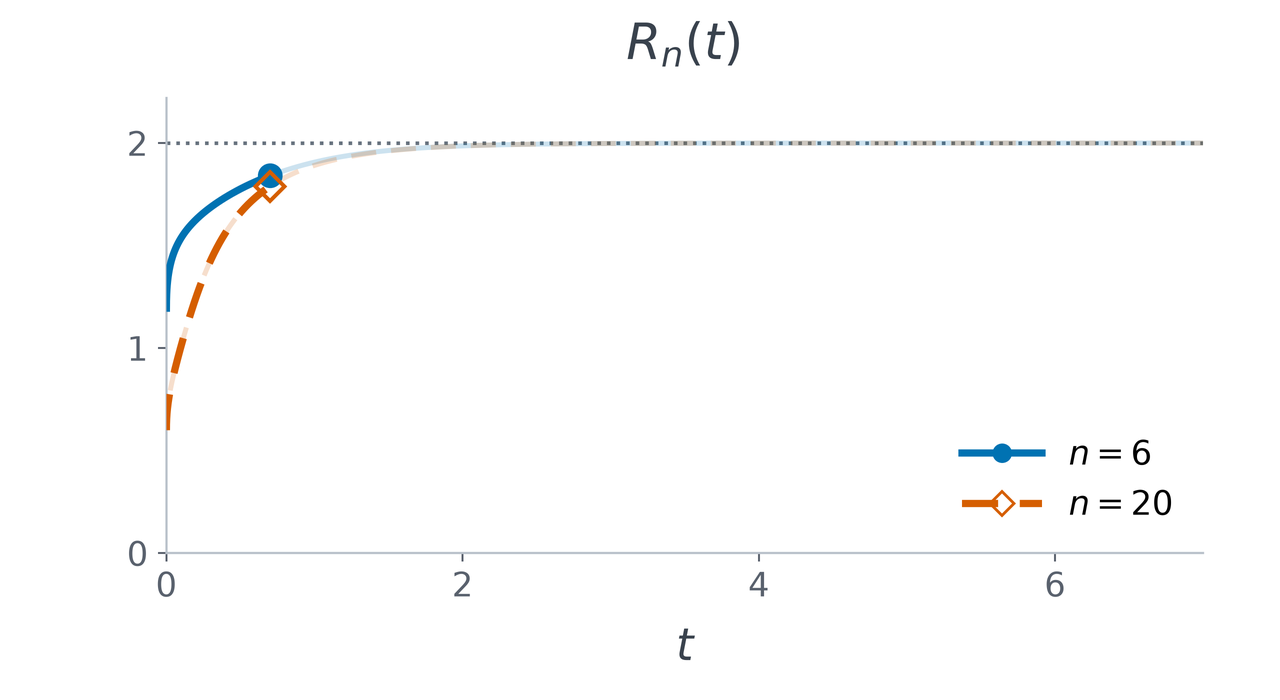
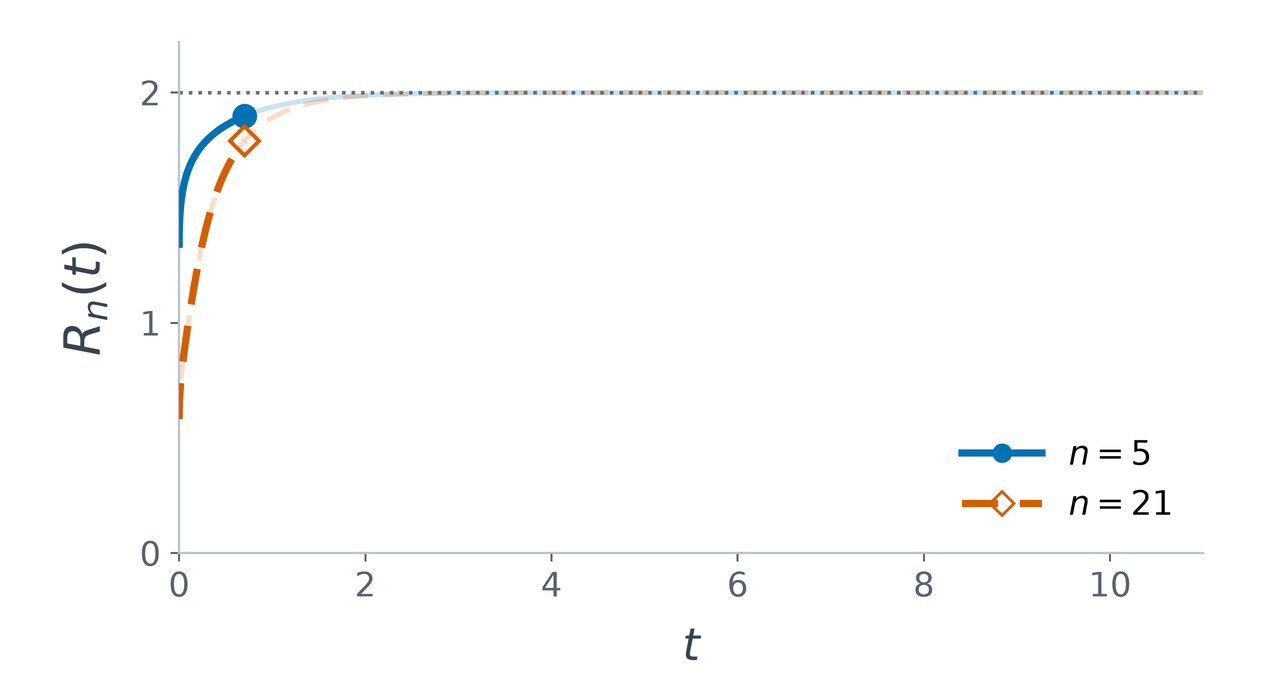
Refine mathematical statement and update animations

diff --git a/scripts/render-semigroup.py b/scripts/render-semigroup.py
@@ -3,18 +3,23 @@
 
 Run from the repository root: python3 scripts/render-semigroup.py
 Multiplier and jump rates: https://arxiv.org/html/2606.02847#S1.E1.
-Both cycles start with a unit point mass at 0. Disk areas encode site masses.
+Both cycles start with a unit point mass at 0. Disk areas are proportional to site masses;
+small hollow background markers keep every site visible even at zero mass.
 All positive-mass disks have the same color. Straight arrows encode the sign
 and magnitude of q(y-x)(p(x)-p(y)); width and darkness use one fixed logarithmic
-scale across both sizes and all frames. The first cycle has 30% larger
-arrowheads; the shared width-to-flux scale is unchanged. Flows below display resolution are
-omitted; arrowheads are omitted on faint or very short visible segments.
+strength scale across both sizes and all frames, rather than a linear flux scale.
+Weak arrows fade smoothly near the display cutoff. The first cycle has 30%
+larger arrowheads. Flows below display resolution are
+omitted; every visible flow has an arrowhead. The displayed odd cycles have
+nonzero direct jump rates from the origin to every other site.
 All transfers enter the actual dynamics and energy calculation.
 The graph shows Ent_pi(rho_t) / E_n(sqrt(rho_t)), rho_t = n p_t.
 It is a numerical illustration, not a proof. The equilibrium ratio is 0/0;
 the plotted finite-time ratios approach 2. Playback slows the early evolution
 by sampling mathematical time nonuniformly. Both animations use the same
-sample times and durations; browsers may start separate GIFs at different times.
+sample times and durations, with a five-second initial hold. The evolution
+continues until every flow is below display resolution, then holds for three
+seconds; browsers may start separate GIFs at different times.
 """
 
 from math import cos, hypot, log, log1p, pi, sin
@@ -28,30 +33,33 @@ from PIL import Image, ImageDraw, ImageFont
 
 
 ROOT = Path(__file__).resolve().parents[1]
-SIZES = (6, 20)
-DIAGRAM_WIDTH, DIAGRAM_HEIGHT = 720, 430
+SIZES = (5, 21)
+DIAGRAM_WIDTH, DIAGRAM_HEIGHT = 720, 350
 PLOT_WIDTH, PLOT_HEIGHT = 640, 350
-END_TIME = 7.0
-FRAME_COUNT = 300
-FRAME_DURATION_MS = 70
+END_TIME = 11.0
+# More samples at 33 fps preserve the roughly 26-second evolution between holds.
+FRAME_COUNT = 876
+FRAME_DURATION_MS = 30
+INITIAL_HOLD_MS = 5000
+FINAL_HOLD_MS = 3000
 SCALE = 4
 EXPORT_SCALE = 2
 RING_RADIUS = 123
-MASS_RADIUS = 30
-CENTERS = ((180, 203), (540, 203))
+MASS_RADIUS = 18
+SITE_RADIUS = 2.8
+CENTERS = ((180, 154), (540, 154))
 ARROWHEAD_SCALES = (1.3, 1.0)
-# A visual stage: exact uniformity is reached only as t tends to infinity.
-EQUILIBRIUM_DISPLAY_TOLERANCE = 0.01
 WHITE = (255, 255, 255)
 INK = (31, 41, 55)
 GUIDE = (196, 204, 213)
 BLUE = (21, 53, 75)
-FLOW_COLOR = (213, 94, 0)
+FLOW_COLOR = (191, 73, 4)
 PLOT_COLORS = ("#0072b2", "#d55e00")
 PLOT_STYLES = ("-", (0, (5, 3)))
 PLOT_MARKERS = ("o", "D")
 FLOW_REFERENCE = 0.0001
-MIN_FLOW_VISIBILITY = 0.15
+MIN_FLOW_VISIBILITY = 0.005
+FULL_FLOW_VISIBILITY = 0.04
 
 
 class HeatEvolution:
@@ -153,6 +161,9 @@ def check_model(model):
     assert np.all((ratios > 0) & (ratios < 2))
     assert np.all(np.diff(ratios) >= 0)
     assert 0 < 2 - ratios[-1] < 1e-6
+    final_flows = model.net_flows(model.distribution(END_TIME))
+    final_visibility = np.log1p(np.abs(final_flows) / FLOW_REFERENCE) / FLOW_LOG_SCALE
+    assert np.all(final_visibility < MIN_FLOW_VISIBILITY), "Animation ends with visible flows"
     print(f"n={n}: R(0)={ratios[0]:.10f}, R({END_TIME:g})={ratios[-1]:.10f}")
 
 
@@ -161,13 +172,13 @@ class RatioPlot:
         self.times = END_TIME * np.linspace(0, 1, 500) ** 2
         self.figure = Figure(figsize=(PLOT_WIDTH / 100, PLOT_HEIGHT / 100), dpi=100 * SCALE)
         self.canvas = FigureCanvasAgg(self.figure)
-        axes = self.figure.add_axes((0.13, 0.21, 0.81, 0.65))
+        axes = self.figure.add_axes((0.14, 0.21, 0.80, 0.73))
         axes.set_xlim(0, END_TIME)
         axes.set_ylim(0, 2.22)
-        axes.set_xticks((0, 2, 4, 6))
+        axes.set_xticks(np.arange(0, END_TIME + 1, 2))
         axes.set_yticks((0, 1, 2))
         axes.set_xlabel(r"$t$", fontsize=16, color="#39424d", labelpad=8)
-        axes.set_title(r"$R_n(t)$", fontsize=18, color="#39424d", pad=14)
+        axes.set_ylabel(r"$R_n(t)$", fontsize=18, color="#39424d", labelpad=10)
         axes.spines[["top", "right"]].set_visible(False)
         for edge in ("left", "bottom"):
             axes.spines[edge].set_color("#b9c1ca")
@@ -244,17 +255,10 @@ def render_heat(t):
     for model, center, arrowhead_scale in zip(MODELS, CENTERS, ARROWHEAD_SCALES):
         p = model.distribution(t)
         check_distribution(model, p)
-        if t == 0:
-            phase = "Initial"
-        elif np.max(np.abs(model.n * p - 1)) <= EQUILIBRIUM_DISPLAY_TOLERANCE:
-            phase = "Equilibrium"
-        else:
-            phase = "Spreading"
-        label(phase, center[0], 23, size=22, bold=True)
         locations = sites(model.n, center)
         radii = MASS_RADIUS * np.sqrt(p)
         disk(center, RING_RADIUS, None, GUIDE, 0.8)
-        label(f"n = {model.n}", center[0], 394, size=24)
+        label(f"n = {model.n}", center[0], 317, size=24)
         signed_flows = model.net_flows(p)
         # Faint transfers first, so stronger transfers remain visible at crossings.
         for index in np.argsort(np.abs(signed_flows)):
@@ -268,28 +272,35 @@ def render_heat(t):
             start, end = locations[x], locations[y]
             distance = hypot(end[0] - start[0], end[1] - start[1])
             ux, uy = (end[0] - start[0]) / distance, (end[1] - start[1]) / distance
-            start_margin, end_margin = max(1.4, radii[x]) + 0.4, max(1.4, radii[y]) + 0.7
+            start_margin = max(SITE_RADIUS, radii[x]) + 0.8
+            end_margin = max(SITE_RADIUS, radii[y]) + 1.2
             available = distance - start_margin - end_margin
             if available < 2:
                 continue
             a = (start[0] + ux * start_margin, start[1] + uy * start_margin)
             b = (end[0] - ux * end_margin, end[1] - uy * end_margin)
-            color = mix(WHITE, FLOW_COLOR, visibility ** 0.6)
-            width = 0.65 + 4 * visibility
+            # Keep weak indirect transfers readable, while a nonlinear width
+            # gives the dominant transfers more contrast on the same fixed scale.
+            # A smooth fade avoids arrows popping on/off at the cutoff. It uses
+            # the same absolute-flow scale in every panel and every frame.
+            fade = min(1.0, (visibility - MIN_FLOW_VISIBILITY) /
+                       (FULL_FLOW_VISIBILITY - MIN_FLOW_VISIBILITY))
+            opacity = fade ** 2 * (3 - 2 * fade)
+            color = mix(WHITE, FLOW_COLOR, opacity * (0.55 + 0.45 * visibility ** 1.5))
+            width = 0.8 + 4.2 * visibility ** 4
             line([a, b], color, width)
-            if visibility >= 0.30 and available >= 15:
-                length = (4 + 5 * visibility) * arrowhead_scale
-                half_width = (2 + 1.5 * visibility) * arrowhead_scale
-                arrow = [b, (b[0] - ux * length - uy * half_width,
-                              b[1] - uy * length + ux * half_width),
-                         (b[0] - ux * length + uy * half_width,
-                          b[1] - uy * length - ux * half_width)]
-                draw.polygon([(round(x * SCALE), round(y * SCALE)) for x, y in arrow], fill=color)
-        # Draw smaller disks first to keep the concentrated mass easy to follow.
+            length = min((4 + 5 * visibility) * arrowhead_scale, available * 0.45)
+            half_width = (1.5 + 1.5 * visibility) * arrowhead_scale
+            arrow = [b, (b[0] - ux * length - uy * half_width,
+                          b[1] - uy * length + ux * half_width),
+                     (b[0] - ux * length + uy * half_width,
+                      b[1] - uy * length - ux * half_width)]
+            draw.polygon([(round(x * SCALE), round(y * SCALE)) for x, y in arrow], fill=color)
+        # Site markers are a separate backdrop, never a floor on encoded mass.
+        for location in locations:
+            disk(location, SITE_RADIUS, WHITE, GUIDE, 0.7)
         for index in np.argsort(p):
-            if p[index] < 1e-12:
-                disk(locations[index], 1.4 if model.n > 10 else 3.2, WHITE, GUIDE, 0.7)
-            else:
+            if p[index] > 0:
                 disk(locations[index], radii[index], BLUE, mix(BLUE, INK, 0.2), 0.6)
 
     return image.resize((DIAGRAM_WIDTH * EXPORT_SCALE, DIAGRAM_HEIGHT * EXPORT_SCALE),
@@ -301,7 +312,8 @@ def export_animation(name, render_frame, times):
     output.mkdir(exist_ok=True)
     snapshot = render_frame(0.7)
     snapshot.save(output / f"{name}.png", optimize=True)
-    sample_indices = (0, 30, 70, 130, 210, FRAME_COUNT - 1)
+    # Sample the full evolution even when the animation frame count changes.
+    sample_indices = np.linspace(0, len(times) - 1, 8, dtype=int)
     exported_width, exported_height = snapshot.size
     sample = Image.new("RGB", (exported_width, exported_height * len(sample_indices)), WHITE)
     for row, i in enumerate(sample_indices):
@@ -323,7 +335,7 @@ def export_animation(name, render_frame, times):
     frames = indexed_frames()
     first = next(frames)
     durations = [FRAME_DURATION_MS] * FRAME_COUNT
-    durations[0], durations[-1] = 2000, 3000
+    durations[0], durations[-1] = INITIAL_HOLD_MS, FINAL_HOLD_MS
     destination = output / f"{name}.gif"
     first.save(destination, save_all=True, append_images=frames,
                     duration=durations, loop=0, disposal=1, optimize=True)

diff --git a/README.md b/README.md
@@ -8,15 +8,17 @@ This project uses [Lean](https://lean-lang.org/), a programming language in whic
 
 <p align="center">
   <a href="assets/word-length-semigroup.png">
-    <img src="assets/word-length-semigroup.gif" width="900" alt="Heat initially concentrated at the origin spreads on discrete cycles with n = 6 and n = 20.">
+    <img src="assets/word-length-semigroup.gif" width="900" alt="Heat initially concentrated at the origin spreads on discrete cycles with n = 5 and n = 21.">
   </a>
 </p>
 
-*The hot spot at the origin spreads along the discrete cycle according to the long-range interaction rule specified by $`A_{\psi}`$ (defined below), until all nodes reach the same temperature.*
+*The hot spot $`\rho_0`$ at the origin spreads along the discrete cycle, according to the long-range interactions specified by the word-length Laplacian $`-A_{\psi_n}`$, until all nodes reach the same temperature.*
+
+The associated Poisson semigroup is $`P_t=e^{-tA_{\psi_n}}`$, and $`\rho_t=P_t\rho_0`$, with $`\rho_0=n\mathbf{1}_{\{0\}}`$.
 
 <p align="center">
   <a href="assets/entropy-energy-ratio.png">
-    <img src="assets/entropy-energy-ratio.gif" width="760" alt="The entropy-to-energy ratios R_n(t) for n = 6 and n = 20 approach 2 from below.">
+    <img src="assets/entropy-energy-ratio.gif" width="760" alt="The entropy-to-energy ratios R_n(t) for n = 5 and n = 21 approach 2 from below.">
   </a>
 </p>
 
@@ -24,49 +26,40 @@ This project uses [Lean](https://lean-lang.org/), a programming language in whic
 R_n(t)=\frac{\mathrm{Ent}_{\pi}(\rho_t)}{\mathcal E_n(\sqrt{\rho_t})}.
 ```
 
-Here $`\rho_t`$ is the heat density; $`\mathrm{Ent}_{\pi}(\rho_t)`$ and $`\mathcal E_n(\sqrt{\rho_t})`$ are the relative entropy and the Dirichlet energy. The plotted ratio approaches $`2`$ from below; the following theorem shows that it cannot exceed $`2`$.
+Here $`\rho_t`$ is the heat density evolving from the hot spot $`\rho_0`$ at time $`t`$. $`\mathrm{Ent}_{\pi}(\rho_t)`$ and $`\mathcal E_n(\sqrt{\rho_t})`$ are called the relative entropy and the Dirichlet form, measuring how far $`\rho_t`$ is from equilibrium in different ways. One can see that the plotted ratios for both simulations approach $`2`$ from below, and may wonder whether this always holds. The inequality we verify below proves this in the affirmative for arbitrary density functions.
 
 ## Mathematical statement
 
-Let $`\mathbb{Z}_n=\mathbb{Z}/n\mathbb{Z}`$ be the cyclic group equipped with the uniform probability measure $`\pi`$, and denote by $`\pi(g)`$ the average $`\frac{1}{n}\sum_{x\in\mathbb{Z}_n}g(x)`$.
+Let $`\mathbb Z_n=\mathbb Z/n\mathbb Z`$ carry the uniform probability measure $`\pi`$. The word-length Laplacian and its Dirichlet form are
+
+```math
+\begin{aligned}
+A_{\psi_n}f(x)&=\sum_{k=0}^{n-1}\min(k,n-k)\widehat f(k)e^{2\pi i kx/n},\\
+\mathcal E_n(f)&=\pi(\overline f\,A_{\psi_n}f),
+\end{aligned}
+```
+
+where $`\widehat f(k)=\frac1n\sum_{x\in\mathbb Z_n}f(x)e^{-2\pi i kx/n}`$ is the Fourier transform of $`f`$.
+
+For $`g\ge0`$, define the relative entropy $`\mathrm{Ent}_\pi(g)=\pi(g\log g)-\pi(g)\log\pi(g)`$, where $`\pi(g)=\frac1n\sum_{x\in\mathbb Z_n}g(x)`$, with natural logarithms and $`0\log0=0`$.
 
 <a name="theorem-1"></a>
 
-**Theorem 1.** For every $`n\geq 4`$ and every nonnegative $`f:\mathbb{Z}_n\to\mathbb{R}`$,
+**Theorem 1.** For every $`n\geq4`$ and every nonnegative $`f:\mathbb Z_n\to\mathbb R`$,
 
 ```math
-\mathrm{Ent}_{\pi}(f^2)\leq 2\mathcal{E}_n(f). \qquad (1)
+\mathrm{Ent}_\pi(f^2)\leq2\mathcal E_n(f).\qquad(1)
 ```
 
-Here $`\mathrm{Ent}_{\pi}(g)=\pi(g\log g)-\pi(g)\log\pi(g)`$ for nonnegative $`g`$, with natural logarithms and $`0\log 0=0`$, and the Dirichlet form is
-
-```math
-\mathcal{E}_n(f)=\sum_{k=0}^{n-1}\min(k,n-k)\,|\widehat f(k)|^2,
-```
-
-where
-
-```math
-\widehat f(k)=\frac{1}{n}\sum_{x=0}^{n-1}f(x)e^{-2\pi i kx/n}.
-```
-
-The Laplacian in the animation is
-
-```math
-A_{\psi}f(x)=\sum_{k=0}^{n-1}\min(k,n-k)\,\widehat f(k)e^{2\pi i kx/n},
-```
-
-with $`\partial_t\rho_t=-A_{\psi}\rho_t`$ and $`\rho_0=n\mathbf{1}_{\{0\}}`$.
-
-The constant $`2`$ is sharp by the standard perturbation argument recalled in [Section 5 of the paper](https://arxiv.org/html/2606.02847#S5), and the formalization here concerns only the inequality part.
+Sharpness follows by a standard perturbation (see [Section 5](https://arxiv.org/html/2606.02847#S5)); only the inequality is formalized here.
 
 ## Verification
 <!--
 The verification is done by [`lake comparator`](https://lean-lang.org/doc/reference/latest/Build-Tools-and-Distribution/Lake/#comparator), a command in the Lean toolchain that compiles [Challenge.lean](Challenge.lean) and [Solution.lean](Solution.lean) independently and checks whether the proof in the latter proves the theorem stated in the former using the axioms allowed in [`comparator.json`](comparator.json).
 -->
-To verify the correctness of the inequality in Lean, one only needs to check that the statement and definitions in [Challenge.lean](Challenge.lean) match the [Theorem 1](#theorem-1) stated above, <!--review the configuration in [`comparator.json`](comparator.json),--> and confirm that `lake comparator` succeeds.
+To verify the correctness of the inequality in Lean, one only needs to check that the statement and definitions in [Challenge.lean](Challenge.lean) match [Theorem 1](#theorem-1) stated above, <!--review the configuration in [`comparator.json`](comparator.json),--> and confirm that `lake comparator` succeeds.
 
-The resulst of `lake comparator` can be checked throguh the GitHub workflow provided by this project as follows:
+The results of `lake comparator` can be checked through the GitHub workflow provided by this project as follows:
 
 1. Sign in to GitHub, open the “Actions” tab, then open the first workflow run listed there, or open it directly from [here](https://xinyuanxie-hub.github.io/cyclic-lsi-new/latest-run/).
 2. Click “Verify the Challenge against Solution”, then expand “Run Comparator with Lean, NanoDa, and con-ron”.
